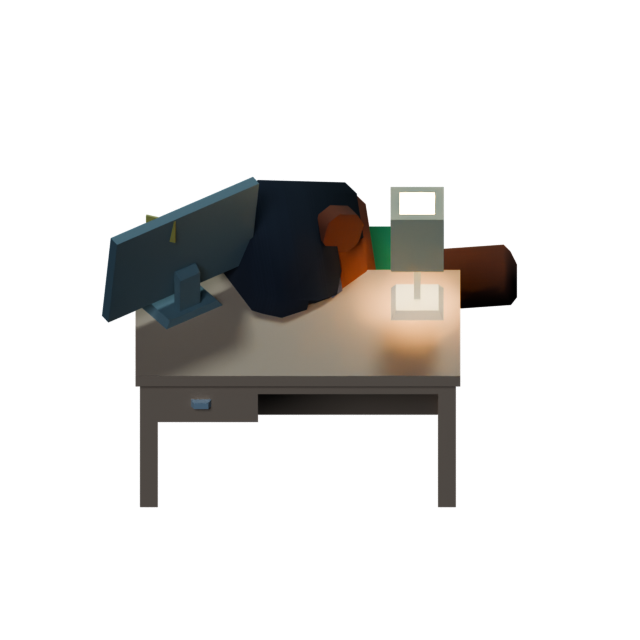
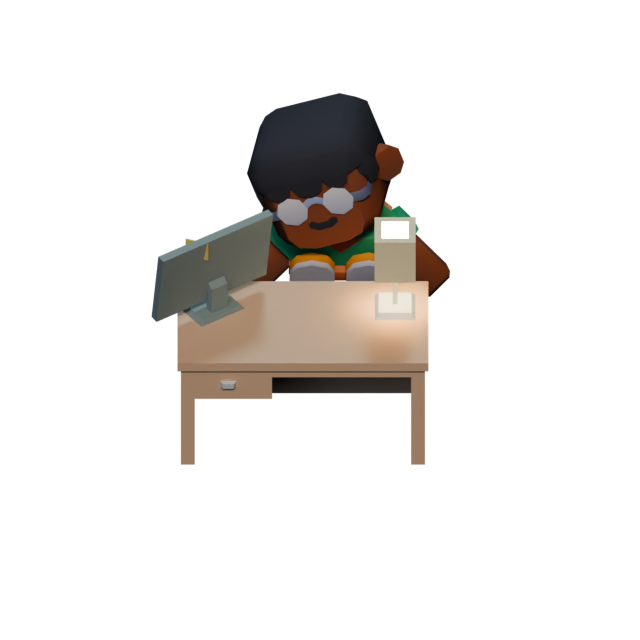
WIP GB-5b: Dez scaled to 1.12 (about Noor's height), face-visible slumped pose, fuller Keeper, 1.35x cards, selection highlight moves on every press (archive select refreshed cards only on phase change), stronger open-line sign

Changed region(s): [[0.1562, 0.125, 0.8125, 0.8125]]

diff --git a/game/src/staffCard.ts b/game/src/staffCard.ts
@@ -33,8 +33,8 @@ export const STAFF_RECORDS: Record<string, StaffRecord> = {
   // the sentinel's head is a blank ID card on its pole; this card replaces it, clipped where the pole enters
   c_dummy: { line: 'GUARD IS QUICK', anchor: { x: 0, y: -158 }, scale: 1, mount: 'clip', name: 'NOOR', tilt: -0.04 },
   // archive (GB-5): anchors are set by ArchiveRoom from the renders' meta
-  a_keeper: { line: 'KEEPER IS AWAKE', anchor: { x: 0, y: 0 }, scale: 1, mount: 'lanyard', name: 'KEEPER', tilt: 0.02 },
-  a_dez: { line: 'DEZ IS ASLEEP', anchor: { x: 0, y: 0 }, scale: 1, mount: 'lanyard', name: 'DEZ', tilt: -0.05 },
+  a_keeper: { line: 'KEEPER IS AWAKE', anchor: { x: 0, y: 0 }, scale: 1.35, mount: 'lanyard', name: 'KEEPER', tilt: 0.02 },
+  a_dez: { line: 'DEZ IS ASLEEP', anchor: { x: 0, y: 0 }, scale: 1.35, mount: 'lanyard', name: 'DEZ', tilt: -0.05 },
 };
 
 export type CardState = 'hidden' | 'open' | 'still' | 'ready';
@@ -46,7 +46,7 @@ const FONT = '"Barlow Condensed", "Arial Narrow", sans-serif';
 const ROWS = [{ top: 8, base: 16.5 }, { top: 19, base: 27.5 }];
 const INNER_L = 4, INNER_R = CARD_W - 4;
 
-type Box = { x: number; y: number; w: number; h: number; row: number };
+type Box = { x: number; y: number; w: number; h: number; row: number; base: number };
 
 /** Split a line into two rows, balanced by length (ties keep the longer first row). */
 export function cardRows(words: string[]): string[][] {
@@ -80,6 +80,11 @@ export class StaffCard {
   blank = -1;
   /** 0..1 strength of the open-line glow while state is 'ready' */
   glow = 1;
+  /** 1 -> 0 over 200 ms after the selection moves: the new word's block flashes bright so every step is seen */
+  selFlash = 0;
+  /** the word index actually drawn reverse-printed on the face last draw (-1 none), and how many times the selection has moved */
+  drawnSel = -1;
+  selMoves = 0;
   private boxes: Box[] = [];
 
   constructor(scene: Phaser.Scene, parent: Phaser.GameObjects.Container, rec: StaffRecord, key: string) {
@@ -117,7 +122,7 @@ export class StaffCard {
     this.words = words.slice();
     this.state = state;
     if (state !== 'open') this.sel = -1;
-    this.scene.tweens.killTweensOf(this);
+    this.scene.tweens.killTweensOf(this); this.selFlash = 0;
     if (state === 'still' && prevState !== 'still') {
       const i = words.findIndex((w, k) => prev[k] !== undefined && prev[k] !== w);
       this.fresh = i >= 0 ? i : words.length - 1;
@@ -129,7 +134,27 @@ export class StaffCard {
 
   setSel(i: number) {
     const n = this.state === 'open' ? i : -1;
-    if (n !== this.sel) { this.sel = n; this.draw(); }
+    if (n === this.sel) return;
+    const moved = n >= 0 && this.sel >= 0;
+    this.sel = n;
+    if (n >= 0) this.selMoves++;
+    this.selFlash = n >= 0 ? 1 : 0;
+    this.draw();   // the highlight moves in this very frame
+    if (n >= 0) {
+      this.scene.tweens.killTweensOf(this);
+      this.scene.tweens.add({ targets: this, selFlash: 0, duration: moved ? 220 : 320, ease: 'Quad.easeOut', onUpdate: () => this.draw(), onComplete: () => { this.selFlash = 0; this.draw(); } });
+    }
+  }
+
+  /** Test probe: is word i drawn with the selection block and its cyan underline bar right now? Reads the face canvas. */
+  probe(i: number): { block: boolean; underline: boolean } {
+    const b = this.boxes[i]; if (!b) return { block: false, underline: false };
+    const c = this.tex.getContext(), s = SS, ox = PAD * s, oy = PAD * s;
+    const at = (cx: number, cy: number) => { const d = c.getImageData(Math.round(ox + cx * s), Math.round(oy + cy * s), 1, 1).data; return d; };
+    let ul = 0, n = 0;
+    for (let k = 1; k <= 6; k++) { const d = at(b.x + (b.w * k) / 7, b.base + 1.85); n++; if (d[1] > 150 && d[2] > 150 && d[0] < 170 && d[1] - d[0] > 40) ul++; }
+    const d0 = at(b.x - 0.9, b.base - 3);
+    return { block: d0[0] < 40 && d0[1] < 44 && d0[2] < 56 && d0[3] > 200, underline: ul >= 4 };
   }
 
   setBlank(i: number) { if (i !== this.blank) { this.blank = i; this.draw(); } }
@@ -178,7 +203,7 @@ export class StaffCard {
     return {
       state: this.state, printed: this.printed, sel: this.sel, blank: this.blank, blankWord: this.blank >= 0 ? this.words[this.blank] ?? null : null, selWord: this.sel >= 0 ? this.words[this.sel] ?? null : null,
       rows: cardRows(this.words).map(r => r.join(' ')), fresh: this.fresh >= 0 ? this.words[this.fresh] : null, wipe: this.wipe,
-      rot: this.root.rotation, lean: this.lean, parented: !!this.root.parentContainer, visible: this.root.visible && this.img.visible,
+      drawnSel: this.drawnSel, selMoves: this.selMoves, selFlash: this.selFlash, rot: this.root.rotation, lean: this.lean, parented: !!this.root.parentContainer, visible: this.root.visible && this.img.visible,
       awake: this.awake, font: FONT,
     };
   }
@@ -211,7 +236,7 @@ export class StaffCard {
     c.fillStyle = 'rgba(185,210,220,0.5)'; c.fillRect(ox + 2 * s, oy + 0.4 * s, W - 4 * s, 0.45 * s);
     // layout
     const rows = cardRows(this.words);
-    this.boxes = [];
+    this.boxes = []; this.drawnSel = -1;
     const paper = col(1.0);
     let wi = 0;
     const printed: string[] = [];
@@ -233,7 +258,7 @@ export class StaffCard {
       row.forEach((w, k) => {
         const idx = wi++;
         const bw = m.ws[k];
-        this.boxes[idx] = { x: (x - ox) / s, y: R.base - cap - 1, w: bw / s, h: cap + 2.6, row: ri };
+        this.boxes[idx] = { x: (x - ox) / s, y: R.base - cap - 1, w: bw / s, h: cap + 2.6, row: ri, base: R.base };
         const top = baseY - cap * s;
         if (idx === this.blank) {
           // taken out: a dashed gap the width of the word, on the baseline
@@ -243,13 +268,20 @@ export class StaffCard {
           this.inkBar(c, x - 1.4 * s, top - 0.9 * s, bw + 2.8 * s, cap * s + 2.0 * s, idx);
         } else if (this.state === 'ready') {
           // the open-line sign: print readable under a thinned grey wash of the bars
-          c.fillStyle = INK; c.globalAlpha = 0.9; c.fillText(w, x, baseY); c.globalAlpha = 1; printed.push(w);
-          c.save(); c.globalAlpha = 0.28; this.inkBar(c, x - 1.4 * s, top - 0.9 * s, bw + 2.8 * s, cap * s + 2.0 * s, idx); c.restore();
+          c.fillStyle = INK; c.fillText(w, x, baseY); this.qTail(c, w, x, baseY, cap * s, INK); printed.push(w);
+          c.save(); c.globalAlpha = 0.16; this.inkBar(c, x - 1.4 * s, top - 0.9 * s, bw + 2.8 * s, cap * s + 2.0 * s, idx); c.restore();
+          c.fillStyle = `rgba(96,236,242,${0.55 + 0.4 * this.glow})`; c.fillRect(x - 0.6 * s, baseY + 1.2 * s, bw + 1.2 * s, 0.9 * s);
         } else if (idx === this.sel) {
           // reverse print: a block of ink, the word knocked out to the card colour
-          c.fillStyle = INK; c.fillRect(x - 1.2 * s, top - 1.3 * s, bw + 2.4 * s, cap * s + 3.0 * s);
-          c.fillStyle = 'rgba(255,255,255,0.05)'; c.fillRect(x - 1.2 * s, top - 1.3 * s, bw + 2.4 * s, 0.6 * s);
-          c.fillStyle = paper; c.fillText(w, x, baseY); this.qTail(c, w, x, baseY, cap * s, paper); printed.push(w);
+          this.drawnSel = idx;
+          const bx = x - 1.8 * s, bwid = bw + 3.6 * s, by = top - 1.6 * s, bh = cap * s + 3.4 * s;
+          c.fillStyle = 'rgb(8,12,20)'; c.fillRect(bx, by, bwid, bh);
+          if (this.selFlash > 0.02) { c.fillStyle = `rgba(110,236,244,${0.7 * this.selFlash})`; c.fillRect(bx, by, bwid, bh); }
+          c.fillStyle = 'rgba(255,255,255,0.07)'; c.fillRect(bx, by, bwid, 0.6 * s);
+          c.fillStyle = this.selFlash > 0.4 ? 'rgb(10,14,22)' : paper; c.fillText(w, x, baseY); this.qTail(c, w, x, baseY, cap * s, this.selFlash > 0.4 ? 'rgb(10,14,22)' : paper); printed.push(w);
+          // the caret bar: a bright cyan underline under the selected word, with a short tick at each end
+          c.fillStyle = 'rgb(86,232,238)'; c.fillRect(bx, baseY + 1.0 * s, bwid, 1.3 * s);
+          c.fillRect(bx, by - 0.2 * s, 0.9 * s, 1.5 * s); c.fillRect(bx + bwid - 0.9 * s, by - 0.2 * s, 0.9 * s, 1.5 * s);
         } else if (idx === this.fresh) {
           // fresh re-print in teal, revealed by a short wipe with a print-head line
           const reveal = bw * this.wipe;
@@ -262,13 +294,18 @@ export class StaffCard {
           if (this.wipe < 1) { c.fillStyle = 'rgba(214,248,255,0.85)'; c.fillRect(x + reveal - 0.3 * s, top - 1.5 * s, 0.6 * s, cap * s + 3.5 * s); }
           printed.push(w);
         } else {
-          c.fillStyle = INK; c.fillText(w, x, baseY); this.qTail(c, w, x, baseY, cap * s, INK); printed.push(w);
+          const dim = this.state === 'open' && this.sel >= 0 ? 'rgba(18,22,32,0.5)' : INK;   // inside a line, the words you are not on step back
+          c.fillStyle = dim; c.fillText(w, x, baseY); this.qTail(c, w, x, baseY, cap * s, dim); printed.push(w);
         }
         x += bw + m.sp;
       });
     });
     this.printed = this.state === 'hidden' ? '' : printed.join(' ');
-    if (this.state === 'ready') { c.fillStyle = `rgba(170,236,246,${0.16 * this.glow})`; c.fillRect(ox, oy, W, H); }
+    if (this.state === 'ready') { c.fillStyle = `rgba(150,238,248,${0.26 * this.glow})`; c.fillRect(ox, oy, W, H);
+      // the magstripe lights cyan and reads OPEN
+      c.fillStyle = `rgba(86,232,238,${0.75 + 0.2 * this.glow})`; c.fillRect(ox, oy + 2.5 * s, W, 3.25 * s);
+      c.font = `800 ${(3.1 / 0.70) * s}px ${FONT}`; try { (c as unknown as { letterSpacing: string }).letterSpacing = `${0.55 * s}px`; } catch { /* */ }
+      c.fillStyle = 'rgb(4,26,34)'; c.fillText('OPEN', ox + (CARD_W / 2 - 5.2) * s, oy + 5.2 * s); try { (c as unknown as { letterSpacing: string }).letterSpacing = '0px'; } catch { /* */ } }
     // footer: name and a staff-record barcode
     c.font = `800 ${(4.75 / 0.70) * s}px ${FONT}`;
     c.fillStyle = this.awake ? RED : GREY; c.fillText(this.rec.name, ox + INNER_L * s, oy + 37.5 * s);
@@ -297,8 +334,8 @@ export class StaffCard {
     c.fillStyle = 'rgba(10,14,20,0.35)'; c.fillRect(ox, oy + 2 * s, 0.6 * s, H - 4 * s);
     // open-line sign: a pale cyan edge, brighter on the pulse
     if (this.state === 'ready') {
-      c.save(); c.shadowColor = `rgba(150,236,250,${0.9 * this.glow})`; c.shadowBlur = 7 * s;
-      c.strokeStyle = `rgba(196,246,252,${0.6 + 0.4 * this.glow})`; c.lineWidth = 1.4 * s; rr(ox - 0.6 * s, oy - 0.6 * s, W + 1.2 * s, H + 1.2 * s, 2.4 * s); c.stroke(); c.restore();
+      c.save(); c.shadowColor = `rgba(150,236,250,${0.9 * this.glow})`; c.shadowBlur = 13 * s;
+      c.strokeStyle = `rgba(206,250,254,${0.75 + 0.25 * this.glow})`; c.lineWidth = 2.2 * s; rr(ox - 0.6 * s, oy - 0.6 * s, W + 1.2 * s, H + 1.2 * s, 2.4 * s); c.stroke(); c.restore();
     }
     if (this.rec.mount === 'lanyard') {
       // lanyard mount: a slot punched at the top and a small metal clip through it (the straps are the wearer's)

diff --git a/game/src/archive.ts b/game/src/archive.ts
@@ -33,8 +33,9 @@ const LIGHT_FILE = 1.0;            // seconds in the lamp's light before Noor is
 const SWEEP_T = 10, SWEEP_A = 0.55, SWEEP_C = -0.14, HALF = 0.17;
 const LAND = { x0: 60, x1: 440, y0: 180, y1: 690 };
 const FAR_X = 150;                 // the light dies out before the doorway column (x < 160 is always dark)
-const DESK = { x0: 220, y0: 330, x1: 380, y1: 392 };   // Dez's desk on screen (the shadow it throws from the lamp)
+const DESK = { x0: 238, y0: 344, x1: 362, y1: 392 };   // Dez's desk on screen (the shadow it throws from the lamp)
 const SLOT = 2;
+const CH = CARD_H * 1.35;           // the archive's cards are 1.35x (84 x 57 px) so the line reads at 1x
 
 type Phase = 'idle' | 'toDez' | 'inDez' | 'home' | 'carry' | 'toKeeper' | 'inKeeper' | 'bounce' | 'done';
 
@@ -86,7 +87,7 @@ export class ArchiveRoom {
     const da = A13.dez_asleep;
     this.dez = s.add.image(0, 0, 'a13_dez_asleep').setOrigin(da.desk_front[0] / da.w, da.desk_front[1] / da.h).setScale(0.5);
     this.dezRig.add(this.dez);
-    STAFF_RECORDS.a_dez.anchor = { x: -50, y: -64 + CARD_H };   // hung over the desk's front lip, left of Dez
+    STAFF_RECORDS.a_dez.anchor = { x: -30, y: -51.6 + CH };   // hung over the desk's front lip, left of Dez
     this.dezCard = new StaffCard(s, this.dezRig, STAFF_RECORDS.a_dez, 'card_a_dez');
     this.dezCard.setAwake(false);
     // The Keeper: stilts in the water, archive boxes for a body, a card-catalogue drawer for a head, card on a lanyard
@@ -94,7 +95,7 @@ export class ArchiveRoom {
     const ka = A13.keeper_awake;
     this.keeper = s.add.image(0, 0, 'a13_keeper_awake').setOrigin(ka.foot[0] / ka.w, ka.foot[1] / ka.h).setScale(0.5 * KS);
     this.keeperRig.add(this.keeper);
-    STAFF_RECORDS.a_keeper.anchor = { x: (ka.card[0] - ka.foot[0]) * KS, y: (ka.card[1] - ka.foot[1]) * KS + CARD_H };
+    STAFF_RECORDS.a_keeper.anchor = { x: (ka.card[0] - ka.foot[0]) * KS, y: (ka.card[1] - ka.foot[1]) * KS + CH };
     this.keeperCard = new StaffCard(s, this.keeperRig, STAFF_RECORDS.a_keeper, 'card_a_keeper');
     this.waterLine = s.add.graphics().setDepth(P.keeper.y + 1);
     this.pole = s.add.graphics().setDepth(P.keeper.y + 2);
@@ -112,7 +113,7 @@ export class ArchiveRoom {
     this.wordChipText = s.add.text(0, -1, '', { fontFamily: '"Barlow Condensed", "Arial Narrow", sans-serif', fontSize: '13px', fontStyle: '800', color: '#12161f' }).setOrigin(0.5);
     this.wordChip.add([slip, this.wordChipText]);
     s.objs.push(this.dezRig, this.keeperRig, this.waterLine, this.pole, this.lantern, this.beam, this.beamMaskG, this.lampGlow, this.warm, this.chip.root, this.wordChip);
-    s.dyn.a13desk = { x: DESK.x0 + 2, y: 345, w: DESK.x1 - DESK.x0 - 4, h: 45 };
+    s.dyn.a13desk = { x: DESK.x0 + 2, y: 356, w: DESK.x1 - DESK.x0 - 4, h: 34 };
     const kb = s.input.keyboard;
     if (kb) { this.keyF = kb.addKey('F'); this.keyL = kb.addKey('LEFT'); this.keyR = kb.addKey('RIGHT'); this.keyQ = kb.addKey('Q'); }
     if (this.traded()) this.setTradedLook(true);
@@ -128,7 +129,7 @@ export class ArchiveRoom {
   traded() { return this.w('a_keeper') === 'ASLEEP' && this.w('a_dez') === 'AWAKE'; }
   inLine() { return this.phase === 'inDez' || this.phase === 'inKeeper'; }
   busyFlight() { return this.phase === 'toDez' || this.phase === 'toKeeper' || this.phase === 'home' || this.phase === 'bounce'; }
-  dezSpot() { return { x: A13_POS.dez.x + (this.traded() ? 120 : 30), y: A13_POS.dez.y - 50 }; }
+  dezSpot() { return this.traded() ? { x: A13_POS.dez.x + 104, y: A13_POS.dez.y - 62 } : { x: A13_POS.dez.x + 18, y: A13_POS.dez.y - 66 }; }
   private cardCentre(c: StaffCard) { const b = c.bounds(0); return { x: (b.x0 + b.x1) / 2, y: (b.y0 + b.y1) / 2 }; }
   private distTo(c: StaffCard) { const p = this.cardCentre(c); return Math.hypot(p.x - this.s.x, p.y - (this.s.y - 40)); }
   nearDez() { return this.distTo(this.dezCard) < DEZ_REACH; }
@@ -145,6 +146,9 @@ export class ArchiveRoom {
     const kState = done ? 'still' : this.phase === 'inKeeper' ? 'open' : this.keeperReady() ? 'ready' : 'hidden';
     if (this.dezCard.state !== dState || this.dezCard.words.join(' ') !== dw.join(' ')) this.dezCard.show(dw, dState);
     if (this.keeperCard.state !== kState || this.keeperCard.words.join(' ') !== kw.join(' ')) this.keeperCard.show(kw, kState);
+    // while a line is open the card is never hidden by Noor standing in front of it
+    this.dezRig.setDepth(this.phase === 'inDez' ? 3590 : A13_POS.dez.y);
+    this.keeperRig.setDepth(this.phase === 'inKeeper' ? 3590 : A13_POS.keeper.y);
     this.dezCard.setBlank(this.carried && !done ? SLOT : -1);
     this.dezCard.setSel(this.phase === 'inDez' ? this.sel : -1);
     this.keeperCard.setSel(this.phase === 'inKeeper' ? this.sel : -1);
@@ -184,7 +188,7 @@ export class ArchiveRoom {
 
   private select(i: number, n: number) {
     const k = Phaser.Math.Clamp(i, 0, n - 1);
-    if (k !== this.sel) { this.sel = k; sfx('impact_whoosh', 0.2); }
+    if (k !== this.sel) { this.sel = k; sfx('impact_whoosh', 0.2); this.refreshCards(); }   // the highlight moves on this very press
     if (k === SLOT) this.s.caretPickedQuick = true;
   }
 
@@ -417,7 +421,7 @@ export class ArchiveRoom {
   private setTradedLook(initial: boolean) {
     const s = this.s, ks = A13.keeper_asleep;
     this.keeper.setTexture('a13_keeper_asleep').setOrigin(ks.foot[0] / ks.w, ks.foot[1] / ks.h);
-    const anc = { x: (ks.card[0] - ks.foot[0]) * KS, y: (ks.card[1] - ks.foot[1]) * KS + CARD_H };
+    const anc = { x: (ks.card[0] - ks.foot[0]) * KS, y: (ks.card[1] - ks.foot[1]) * KS + CH };
     STAFF_RECORDS.a_keeper.anchor = anc; STAFF_RECORDS.a_keeper.tilt = 0.16;
     if (initial) { this.keeperCard.setLean(0); this.warm.setAlpha(1); }
     else { s.tweens.add({ targets: this.keeperCard.root, x: anc.x, y: anc.y, rotation: 0.16, duration: 700, ease: 'Sine.easeInOut' }); s.tweens.add({ targets: this.warm, alpha: 1, duration: 1600 }); }

diff --git a/game/src/archive13art.ts b/game/src/archive13art.ts
@@ -1,4 +1,4 @@
 // generated by art/tools/archive13_post.py from art/render/archive13 (archive13.py renders). 1x px; images are 2x.
-export const A13 = {"dez_asleep": {"w": 320, "h": 320, "desk_front": [149.0, 228.6], "desk_top": [149.0, 137.2], "head": [173.3, 136.4], "bulb": [208.6, 108.6], "desk_l": [69.4, 228.6], "desk_r": [228.5, 228.6], "feet": [270.5, 201.4]}, "dez_awake": {"w": 320, "h": 320, "desk_front": [149.0, 228.6], "desk_top": [149.0, 137.2], "head": [262.2, 145.6], "bulb": [208.6, 108.6], "desk_l": [69.4, 228.6], "desk_r": [228.5, 228.6], "feet": [270.5, 201.4]}, "dez_portrait": {"w": 160, "h": 160}, "keeper_awake": {"w": 260, "h": 340, "foot": [148.3, 296.1], "hand": [50.8, 179.8], "card": [148.3, 139.4], "head": [148.3, 79.5], "stiltL": [133.0, 296.1], "stiltR": [163.5, 296.1]}, "keeper_asleep": {"w": 260, "h": 340, "foot": [148.3, 296.1], "hand": [77.7, 197.7], "card": [141.0, 161.2], "head": [135.9, 119.5], "stiltL": [133.0, 296.1], "stiltR": [163.5, 296.1]}, "keeper_lantern": {"w": 48, "h": 64, "hook": [24.0, 20.0], "glow": [24.0, 34.4]}} as const;
+export const A13 = {"dez_asleep": {"w": 320, "h": 320, "desk_front": [151.5, 213.0], "desk_top": [151.5, 142.4], "head": [170.2, 108.2], "bulb": [197.5, 120.3], "desk_l": [90.0, 213.0], "desk_r": [212.9, 213.0], "feet": [245.3, 191.9]}, "dez_awake": {"w": 320, "h": 320, "desk_front": [151.5, 213.0], "desk_top": [151.5, 142.4], "head": [254.9, 153.5], "bulb": [197.5, 120.3], "desk_l": [90.0, 213.0], "desk_r": [212.9, 213.0], "feet": [257.3, 194.0]}, "dez_portrait": {"w": 160, "h": 160}, "keeper_awake": {"w": 260, "h": 340, "foot": [148.3, 296.1], "hand": [40.9, 173.5], "card": [148.3, 133.1], "head": [148.3, 73.3], "stiltL": [133.0, 296.1], "stiltR": [163.5, 296.1]}, "keeper_asleep": {"w": 260, "h": 340, "foot": [148.3, 296.1], "hand": [67.0, 194.3], "card": [140.2, 156.7], "head": [135.0, 115.1], "stiltL": [133.0, 296.1], "stiltR": [163.5, 296.1]}, "keeper_lantern": {"w": 48, "h": 64, "hook": [24.0, 20.0], "glow": [24.0, 34.4]}} as const;
 export const A13_DRIP = {"w": 40, "h": 64, "frames": 16};
 export const A13_SHEEN = {"w": 300, "h": 150, "frames": 12};

diff --git a/art/tools/archive13.py b/art/tools/archive13.py
@@ -93,11 +93,12 @@ def save(sc, name, meta=None):
 
 # ------------------------------------------------------------------ Dez
 DEZ_COL = dict()
-DZS = 1.45
+DZS = float(os.environ.get('DZS', 1.12))
 FILL = float(os.environ.get('FILL', 1.1))
-DZ_Y, DZ_Z = float(os.environ.get('DZ_Y', 0)), float(os.environ.get('DZ_Z', 0.12))
+DZ_Y, DZ_Z = float(os.environ.get('DZ_Y', 0.84)), float(os.environ.get('DZ_Z', -0.03))
 def _v(k, d): return tuple(float(a) for a in os.environ.get(k, d).split(','))
-TORSO = _v('TORSO', '30,0,0'); HEADB = _v('HEADB', '10,0,60'); ARML = _v('ARML', '-90,0,30'); ARMR = _v('ARMR', '-90,0,-30')
+# GB-5b: asleep Dez sits slumped behind his desk, head dropped to one shoulder, glasses and shirt visible (the old pose hid his face behind the monitor)
+TORSO = _v('TORSO', '14,0,0'); HEADB = _v('HEADB', '-22,0,22'); ARML = _v('ARML', '-30,0,-10'); ARMR = _v('ARMR', '-30,0,10')
 def dez_char(loc, rotz, action='idle', frame=0.0):
     h, new = glb(MC + 'character-male-a.glb', loc, rotz)
     for o in new:
@@ -140,24 +141,28 @@ def render_dez(kind):
         light('SUN', (0, 0, 5), 2.0, (0.45, 0.80, 0.92), 6, (R(-60), 0, R(50)), False)
         light('SUN', (0, 0, 5), 0.6, (0.5, 0.55, 0.9), 30, (R(80), 0, R(10)), False)
         save(sc, kind); return
-    # Kenney's mini characters are small next to Noor's model: Dez and his desk render 1.45x so he stands as tall as she does
+    # Kenney's mini characters are small next to Noor's model: Dez and his desk render 1.12x so he stands about as tall as she does (GB-5b: was 1.45, too big)
     W, H = 320, 320
     cam = camera(sc, W, H, (0.05, 0.12, 0.30), ortho=max(W, H) / (PXU * DZS))
     awake = kind == 'dez_awake'
     bulb = desk_set((0, 0, 0), chair_back=0.18 if awake else 0.0, awake=awake)
     archive_light(bulb, 9.0)
+    RIM = float(os.environ.get('RIM', 1.2))
+    if RIM: light('SUN', (0, 0, 5), RIM, (1.0, 0.80, 0.58), 8, (R(-30), R(-25), R(150)), False)   # a warm rim from the lamp side so his shape separates
     if not awake:
         # seated in the chair behind the desk, facing the camera, slumped onto folded arms
-        h, arm, meshes, lm = dez_char((0.11, 0.40 + DZ_Y, DZ_Z), R(0), 'sit', 0.0)
+        h, arm, meshes, lm = dez_char((0.11, DZ_Y, DZ_Z), R(0), 'sit', 0.0)
         bend(arm, 'torso', *TORSO); bend(arm, 'head', *HEADB)
         bend(arm, 'arm-left', *ARML); bend(arm, 'arm-right', *ARMR)
     else:
-        h, arm, meshes, lm = dez_char((0.55, 0.20, 0), R(-70), 'interact-right', 0.45)
+        AWK = _v('AWK', '0.62,0.18,-20')
+        h, arm, meshes, lm = dez_char((AWK[0], AWK[1], 0), R(AWK[2]), 'interact-right', 0.45)
         bend(arm, 'head', -6, 0, 0)
     bpy.context.view_layer.update()
     head = arm.matrix_world @ arm.pose.bones['head'].head
+    fp = AWK if awake else (0.55, 0.20, 0)
     meta = dict(w=W, h=H, desk_front=px(sc, cam, (0.0, 0.0, 0.0)), desk_top=px(sc, cam, (0.0, 0.18, 0.384)), head=px(sc, cam, head),
-                bulb=px(sc, cam, bulb), desk_l=px(sc, cam, (-0.36, 0.0, 0.0)), desk_r=px(sc, cam, (0.36, 0.0, 0.0)), feet=px(sc, cam, (0.55, 0.20, 0)))
+                bulb=px(sc, cam, bulb), desk_l=px(sc, cam, (-0.36, 0.0, 0.0)), desk_r=px(sc, cam, (0.36, 0.0, 0.0)), feet=px(sc, cam, (fp[0], fp[1], 0)))
     save(sc, kind, meta)
 
 # ------------------------------------------------------------------ the Keeper
@@ -171,25 +176,33 @@ def render_keeper(kind):
     slit = mat('slit', (200, 230, 236), 0.4, emit=0.0 if asleep else 1.6, emit_rgb=(170, 220, 230)); string = mat('string', (190, 178, 150), 0.9)
     lany = mat('lany', (70, 92, 104), 0.6)
     root = empty('root')
-    # stilts: two thin iron legs from the water line, an A-frame with knee blocks
+    # stilts: two iron legs on foot plates from the water line, a knee block each, an X-brace and a stout hip bar (GB-5b: fuller)
     for sx in (-1, 1):
-        box('stilt', (sx * 0.10, 0.0, 0.46), (0.024, 0.024, 0.95), iron, (0, R(sx * -4), 0), root)
-        box('knee', (sx * 0.093, -0.01, 0.48), (0.05, 0.05, 0.05), iron, (0, 0, 0), root)
-    box('hipbar', (0, 0, 0.93), (0.30, 0.05, 0.04), iron, (0, 0, 0), root)
+        box('stilt', (sx * 0.11, 0.0, 0.47), (0.052, 0.046, 0.95), iron, (0, R(sx * -4), 0), root, 0.006)
+        box('knee', (sx * 0.10, -0.012, 0.50), (0.085, 0.075, 0.085), iron, (0, 0, 0), root, 0.008)
+        box('foot', (sx * 0.12, -0.01, 0.012), (0.13, 0.12, 0.025), iron, (0, 0, 0), root, 0.006)
+    for sgn in (-1, 1):
+        box('brace', (0, 0.0, 0.30), (0.012, 0.012, 0.36), iron, (0, R(sgn * 34), 0), root)
+    box('hipbar', (0, 0, 0.93), (0.38, 0.09, 0.06), iron, (0, 0, 0), root, 0.008)
     body = empty('body', (0, 0, 0.95), root, (R(16), R(-7), 0) if asleep else (R(-3), 0, 0))
     # torso: three archive boxes, a little out of true, string-tied, with label windows
     z = 0.0
-    for i, (w, h, dx, rz) in enumerate(((0.40, 0.22, 0.0, 2), (0.36, 0.20, 0.012, -4), (0.33, 0.19, -0.01, 3))):
-        b = box('abox%d' % i, (dx, 0, z + h / 2), (w, 0.27, h), kraft if i % 2 == 0 else kraft2, (0, 0, R(rz)), body, 0.006)
-        box('label', (dx - 0.06, -0.137, z + h * 0.58), (0.12, 0.004, 0.06), lab, (0, 0, R(rz)), body)
-        box('lbl_line', (dx - 0.06, -0.140, z + h * 0.58), (0.09, 0.003, 0.006), ink, (0, 0, R(rz)), body)
-        box('hand_hole', (dx + 0.10, -0.137, z + h * 0.62), (0.06, 0.004, 0.022), ink, (0, 0, R(rz)), body)
-        box('tie', (dx, 0, z + h / 2), (0.012, 0.278, h + 0.004), string, (0, 0, R(rz)), body)
+    for i, (w, h, dx, rz) in enumerate(((0.50, 0.24, 0.0, 2), (0.46, 0.22, 0.012, -4), (0.42, 0.20, -0.01, 3))):
+        b = box('abox%d' % i, (dx, 0, z + h / 2), (w, 0.30, h), kraft if i % 2 == 0 else kraft2, (0, 0, R(rz)), body, 0.006)
+        box('label', (dx - 0.06, -0.152, z + h * 0.58), (0.12, 0.004, 0.06), lab, (0, 0, R(rz)), body)
+        box('lbl_line', (dx - 0.06, -0.155, z + h * 0.58), (0.09, 0.003, 0.006), ink, (0, 0, R(rz)), body)
+        box('hand_hole', (dx + 0.10, -0.152, z + h * 0.62), (0.06, 0.004, 0.022), ink, (0, 0, R(rz)), body)
+        box('tie', (dx, 0, z + h / 2), (0.014, 0.308, h + 0.004), string, (0, 0, R(rz)), body)
         z += h
-    box('yoke', (0, 0, z + 0.015), (0.56, 0.06, 0.03), iron, (0, 0, 0), body)
+    box('yoke', (0, 0, z + 0.02), (0.68, 0.09, 0.045), iron, (0, 0, 0), body, 0.008)
+    for sx in (-1, 1):   # a strapped ledger satchel hangs off each shoulder, a hanging apron of file folders below the boxes
+        box('satchel', (sx * 0.33, 0.0, z - 0.17), (0.10, 0.17, 0.24), kraft2, (0, 0, R(sx * 3)), body, 0.006)
+        box('satchel_strap', (sx * 0.33, 0.0, z - 0.04), (0.108, 0.176, 0.016), string, (0, 0, R(sx * 3)), body)
+    box('apron', (0, -0.16, 0.0), (0.40, 0.012, 0.14), lab, (R(8), 0, 0), body)
+    for i in range(5): box('folder', (-0.15 + i * 0.075, -0.168, 0.0), (0.006, 0.012, 0.13), ink, (R(8), 0, 0), body)
     neck = empty('neck', (0, 0, z + 0.03), body, (R(26), 0, R(8)) if asleep else (R(10), 0, 0))
-    box('neckrod', (0, 0, 0.10), (0.024, 0.024, 0.20), iron, (0, 0, 0), neck)
-    head = empty('head', (0, 0, 0.21), neck, (R(-12), 0, 0))
+    box('neckrod', (0, 0, 0.10), (0.042, 0.042, 0.20), iron, (0, 0, 0), neck)
+    head = empty('head', (0, 0, 0.21), neck, (R(-12), 0, 0)); head.scale = (1.25, 1.25, 1.25)
     box('drawer', (0, -0.06, 0.07), (0.27, 0.20, 0.15), oak, (0, 0, 0), head, 0.008)
     box('front', (0, -0.165, 0.07), (0.28, 0.02, 0.16), oak, (0, 0, 0), head, 0.004)
     # an open catalogue drawer: rows of pale index cards stand up out of it (the Keeper's 'hair')
@@ -204,17 +217,17 @@ def render_keeper(kind):
     card_pt = body.matrix_world @ Vector((0, -0.155, z - 0.16))
     # arms: long iron rods. Awake: the right arm (screen left) reaches out to hold the lamp pole; the other hangs.
     for sx in (-1, 1):
-        sh = empty('sh', (sx * 0.27, 0, z), body)
+        sh = empty('sh', (sx * 0.335, 0, z), body)
         if sx < 0 and not asleep:
             sh.rotation_euler = (R(-20), R(48), 0)
         elif sx < 0:
             sh.rotation_euler = (R(-10), R(18), 0)
         else:
             sh.rotation_euler = (0, R(-8), 0)
-        box('upper', (0, 0, -0.17), (0.026, 0.026, 0.34), iron, (0, 0, 0), sh)
+        box('upper', (0, 0, -0.17), (0.048, 0.048, 0.34), iron, (0, 0, 0), sh, 0.006)
         el = empty('el', (0, 0, -0.34), sh, (R(-35), R(0), 0) if sx < 0 and not asleep else (R(8), 0, 0))
-        box('fore', (0, 0, -0.15), (0.022, 0.022, 0.30), iron, (0, 0, 0), el)
-        box('grip', (0, 0, -0.31), (0.04, 0.04, 0.04), iron, (0, 0, 0), el)
+        box('fore', (0, 0, -0.15), (0.042, 0.042, 0.30), iron, (0, 0, 0), el, 0.006)
+        box('grip', (0, 0, -0.31), (0.075, 0.075, 0.075), iron, (0, 0, 0), el, 0.008)
         if sx < 0: hand = empty('hand', (0, 0, -0.31), el)
     archive_light((-0.55, -0.35, 1.0) if not asleep else (-0.25, -0.30, 0.15), 30 if not asleep else 14)
     bpy.context.view_layer.update()

diff --git a/art/tools/archive13_post.py b/art/tools/archive13_post.py
@@ -59,8 +59,8 @@ def plate():
     d.rectangle((566, 66, 714, 72), fill=(84, 120, 132, 255)); d.rectangle((566, 73, 714, 75), fill=(24, 36, 44, 255))
     b = light(b, [(566, 182), (714, 182), (792, 560), (632, 560)], (54, 90, 104), 0.24, 26)
     # light 2: Dez's shaded desk lamp (warm, low): a trapezoid on the floor around his desk
-    b = light(b, [(246, 300), (420, 300), (452, 452), (214, 462)], (132, 96, 54), 0.32, 24)
-    b = light(b, [(318, 258), (404, 258), (414, 300), (308, 304)], (150, 108, 60), 0.22, 12)
+    b = light(b, [(262, 318), (402, 318), (430, 448), (236, 456)], (132, 96, 54), 0.32, 24)
+    b = light(b, [(322, 276), (390, 276), (398, 318), (314, 322)], (150, 108, 60), 0.22, 12)
     return b.convert('RGB')
 
 def codeview(g):
